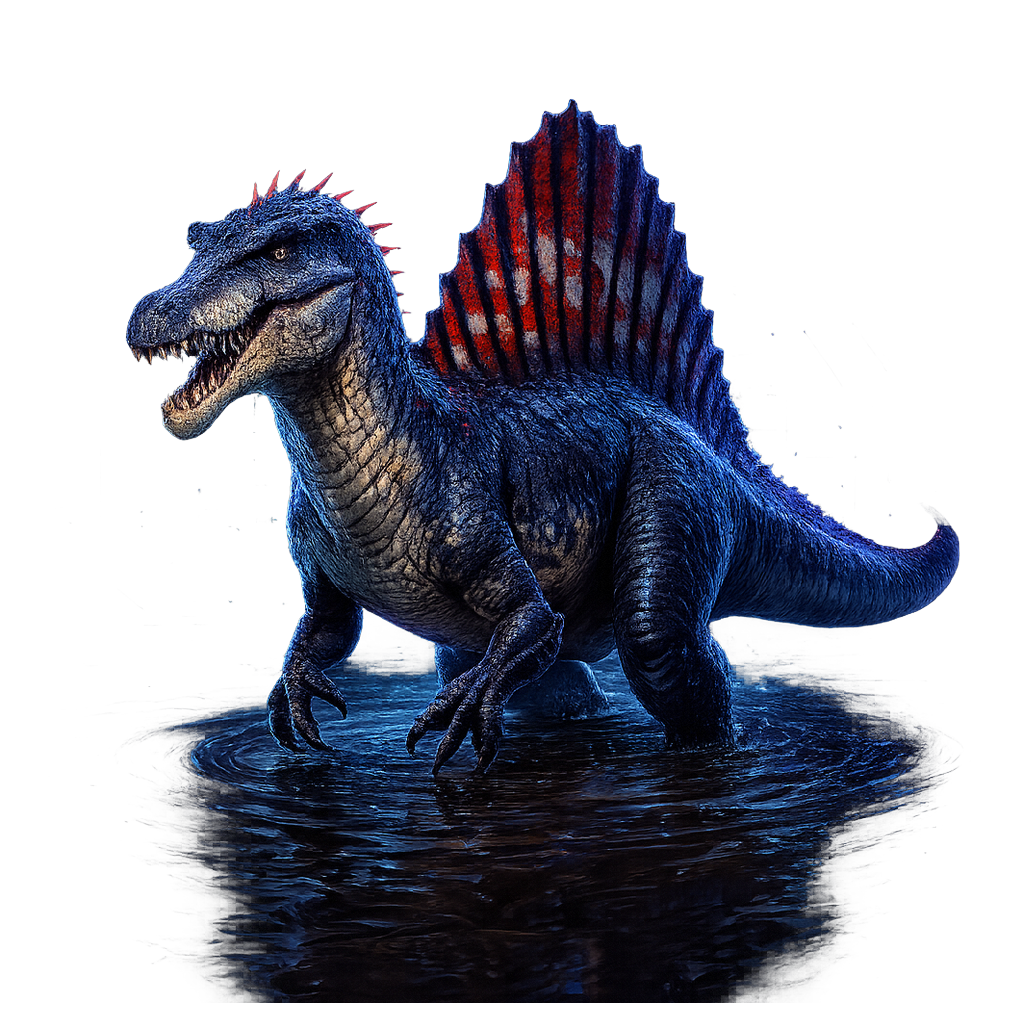
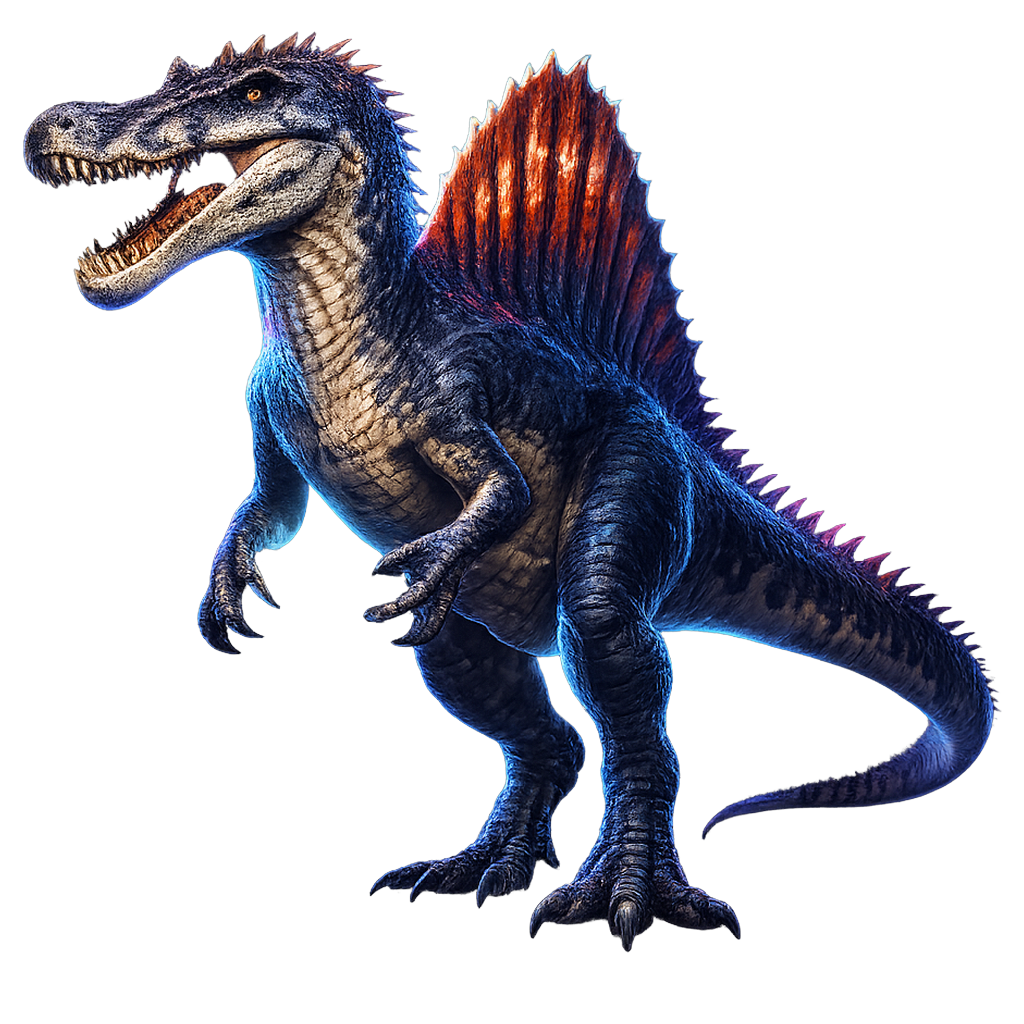
Complete pregen asset batch: 151 slots across 6 families
95 source-part portraits (mid-batch checkpoint caught 11 scenery-drift
renders + 4 hidden-subject visual hints), 9 arenas + cards with
consistent pylon framing, lab set pieces, 25 solid-glow icons (first
render failed readability QA, style hardened), trophies, Henry
avatars from photo likeness. Resumable family-based generator with
--only/--force/--contact; alpha-threshold trim added to assetlib.

diff --git a/scripts/generate_assets.py b/scripts/generate_assets.py
@@ -58,6 +58,20 @@ REF_AVATAR = RAW_DIR / "avatar_henry_a.png"       # produced by this script
 
 NO_PROPS = "No trophies, no statues, no gold objects, no creatures. "
 
+# Portraits kept drifting into painted mini-scenes (snow fields, waves, lava
+# pools, cloud banks) instead of clean cutouts. This is appended to every
+# source-part prompt.
+PORTRAIT_ISOLATION = (
+    " CRITICAL: this is a cut-out sprite of the creature ALONE. Do not paint "
+    "any scenery, environment, habitat, ground, floor, terrain, rock, water, "
+    "waves, snow, lava, sand, clouds, sky, mist, smoke, dust, moon, or cast "
+    "shadow. No base, no platform, no pedestal, no rectangular backdrop panel, "
+    "no vignette. Everything that is not the creature's own body must be "
+    "completely empty and fully transparent, right up to its silhouette. "
+    "Effects like fire or lightning are allowed only where they touch the "
+    "creature's own body. Transparent background."
+)
+
 ICON_STYLE = (
     "Bold glowing holographic sigil icon for a game interface. A single SOLID "
     "FILLED silhouette shape built from thick chunky simple forms — absolutely "
@@ -108,6 +122,26 @@ def cutout(slot, raw, prompt, size="1024x1024", refs=(), out=None, **fkw) -> Job
 
 
 # --------------------------------------------------------------- families ---
+# A few visual_hints in the data describe the animal hidden in its habitat
+# ("only eyes above the surface"). That is great flavour text but useless as a
+# fusion-part portrait, so the hint is rewritten for these slugs only.
+HINT_OVERRIDES = {
+    "saltwater-crocodile":
+        "olive-black scaled hide beaded with glistening water, massive "
+        "armoured tail and enormous toothy jaws held open, the whole animal "
+        "out in the open in full view",
+    "spinosaurus":
+        "wet slate-blue and cream hide, tall red-striped sail along its back, "
+        "long crocodilian jaws, standing upright in full view",
+    "hydra":
+        "bog-green scaled bulk, nine dripping serpentine necks fanned out and "
+        "rearing high, acid steaming from the jaws, whole body in full view",
+    "megalodon":
+        "colossal shark, leaden grey back and white belly, jaws gaping to show "
+        "rows of triangular teeth, entire body in full view",
+}
+
+
 def family_parts() -> list[Job]:
     jobs = []
     for c in PARTS:
@@ -119,8 +153,9 @@ def family_parts() -> list[Job]:
             if power:
                 extra = (f" Show its legendary power visibly in the pose and "
                          f"effects: {power}.")
-        prompt = (PORTRAIT_STYLE + "Creature: " + c["name"] + ". " +
-                  c["visual_hint"] + "." + extra + " Transparent background.")
+        hint = HINT_OVERRIDES.get(c["slug"], c["visual_hint"])
+        prompt = (PORTRAIT_STYLE + "Creature: " + c["name"] + ". " + hint +
+                  "." + extra + PORTRAIT_ISOLATION)
         jobs.append(cutout(f"parts/{c['slug']}", f"part_{c['slug']}", prompt,
                            refs=(REF_PART,)))
     return jobs
